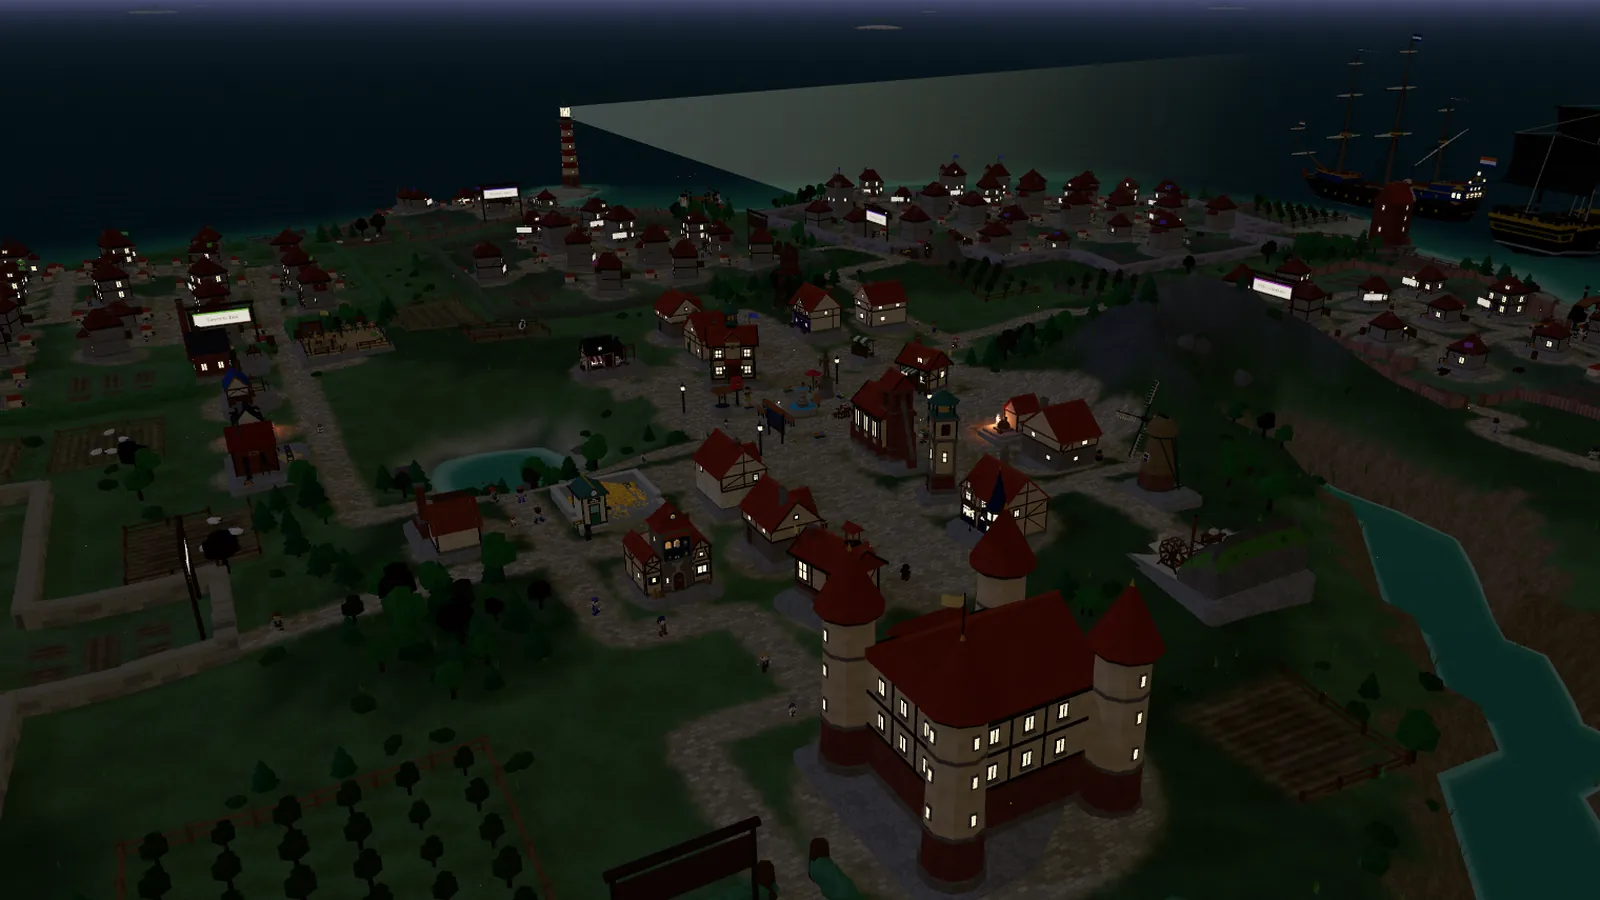
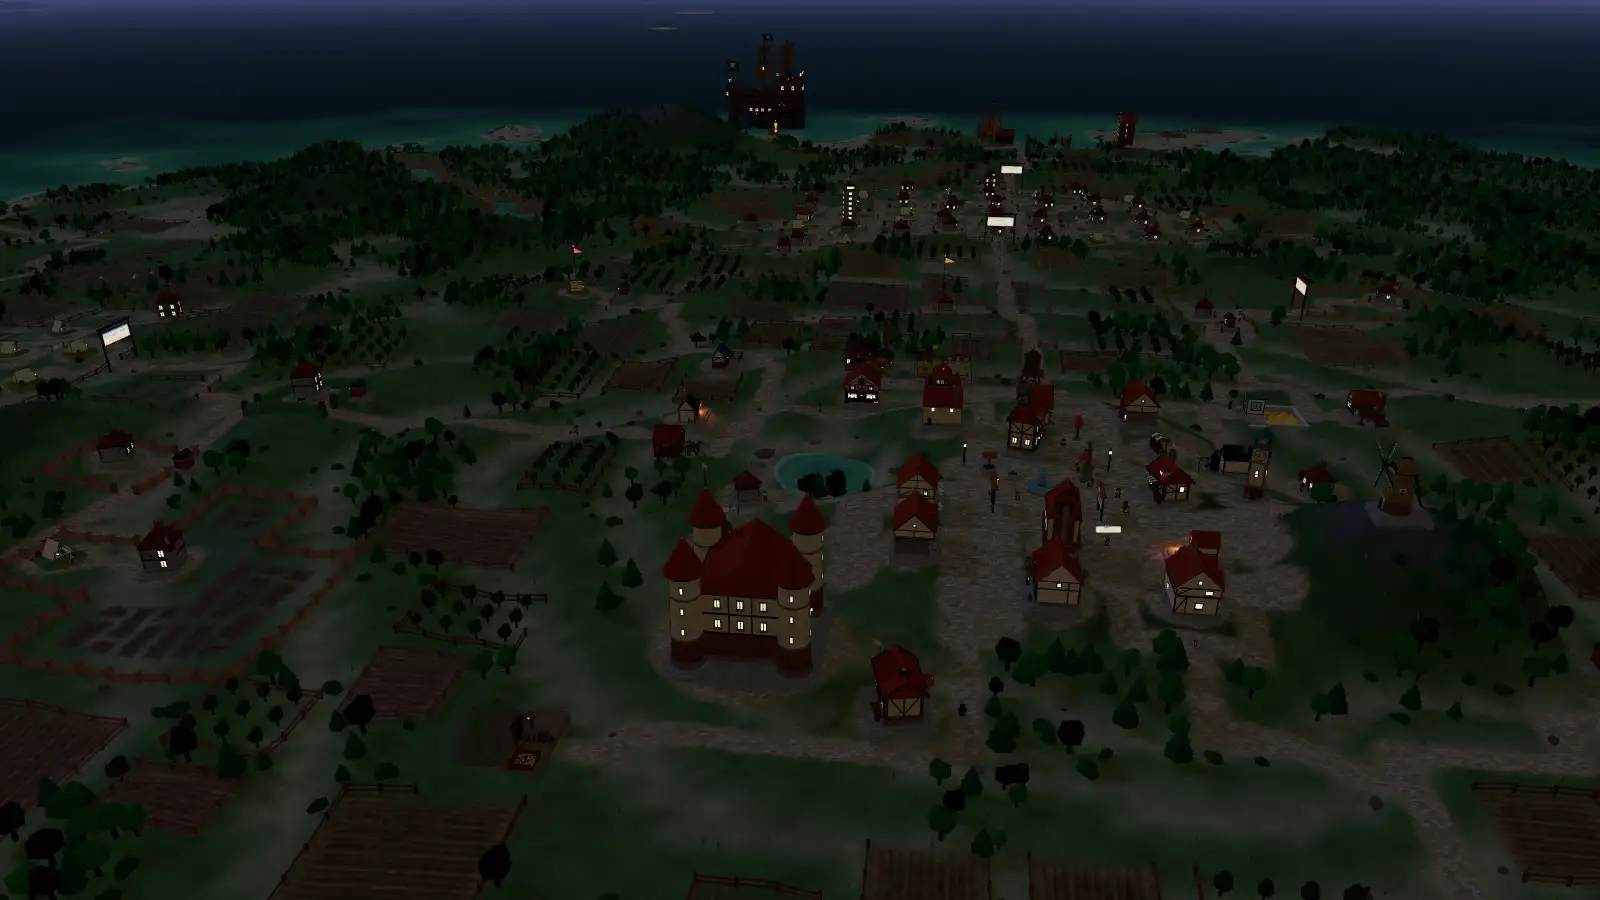
Maak de overzichtsfoto's van de website opnieuw op een eiland met ruimte
Het synthetische eiland was op 128 gesticht en zijn 175 huizen stonden
schouder aan schouder. Overzicht, stad (dag en nacht), burcht, gehucht,
haven, interface en og.jpg komen nu van een kopie van BierRum (288,
zeventien wijken ver uit elkaar), met de boten en schepen verborgen.
De titelkaart, de bijschriften en de alt-teksten volgen het nieuwe
eiland; het recept staat in Plans/DONE/website.md.

diff --git a/site/index.html b/site/index.html
@@ -68,15 +68,15 @@
       <figure class="hero-shot">
         <picture>
           <source media="(max-width: 700px)" srcset="img/town-800.webp">
-          <img src="img/town.webp" width="1600" height="900" alt="An aerial view of a Promptholm town in the afternoon: a red-roofed castle in front, the market square behind it, hamlets of houses stretching to the coast, a lighthouse and two tall ships at anchor." fetchpriority="high">
+          <img src="img/town.webp" width="1600" height="900" alt="An aerial view of a Promptholm town in the afternoon: a red-roofed castle in front, the market square behind it, hamlets of houses spread out among fields and woods, and the Salty Kraken on its rock in the bay." fetchpriority="high">
         </picture>
         <div class="titlecard" aria-hidden="true">
           <p class="tc-kicker">The living island</p>
           <p class="tc-name">Promptholm <span class="tc-live">Live</span></p>
           <p class="tc-founded">Founded 1 January 2026</p>
-          <p class="tc-stats"><span><b>175</b> settlers</span><span><b>202</b> apprentices</span><span><b>11</b> districts</span></p>
+          <p class="tc-stats"><span><b>140</b> settlers</span><span><b>120</b> apprentices</span><span><b>17</b> districts</span></p>
         </div>
-        <figcaption>An island of 175 sessions across eleven repositories, at four in the afternoon.</figcaption>
+        <figcaption>An island of 140 sessions across seventeen repositories, at four in the afternoon.</figcaption>
       </figure>
     </div>
   </section>
@@ -154,7 +154,7 @@
           <p>When the land runs out, the island grows. New coast rises from the shallows, old coves are drained into polders, and the river mouth becomes a harbour with a stone quay.</p>
         </div>
         <figure class="shot split-media">
-          <img src="img/castle.webp" width="1600" height="900" loading="lazy" alt="The great castle of Promptholm with four red-capped towers, rows of houses behind it, a river running to the sea and three ships on the horizon under an orange evening sky.">
+          <img src="img/castle.webp" width="1600" height="900" loading="lazy" alt="The great castle of Promptholm with four red-capped towers, the town square beside it, hamlets scattered through the woods behind and the Salty Kraken on the horizon under an orange evening sky.">
           <figcaption>The castle, earned at a hundred settlers.</figcaption>
         </figure>
       </div>
@@ -252,7 +252,7 @@
       </div>
       <figure class="daynight" id="daynight">
         <img class="dn-day" draggable="false" src="img/town.webp" width="1600" height="900" loading="lazy" alt="The town at four in the afternoon.">
-        <img class="dn-night" draggable="false" src="img/night.webp" width="1600" height="900" loading="lazy" alt="The same view at nine in the evening: lit windows, lamps on the square and the lighthouse beam over the sea.">
+        <img class="dn-night" draggable="false" src="img/night.webp" width="1600" height="900" loading="lazy" alt="The same view at nine in the evening: lit windows, lamps on the square and lanterns on the Salty Kraken out in the bay.">
         <span class="dn-label dn-l" aria-hidden="true">16:00</span>
         <span class="dn-label dn-r" aria-hidden="true">21:00</span>
         <div class="dn-handle" aria-hidden="true"><span></span></div>
@@ -333,13 +333,13 @@
         <p>Every picture here is a screenshot of Promptholm running, most with the interface hidden for the view. Click one to see it large.</p>
       </div>
       <ul class="gallery">
-        <li class="g-wide"><button type="button" data-full="img/aerial.webp"><img src="img/aerial-800.webp" width="800" height="450" loading="lazy" alt="The whole island from high above: a green island ringed by turquoise shallows, hundreds of red-roofed houses in walled hamlets, a river, a lighthouse and ships at anchor."></button><p>The whole island, 175 houses in eleven hamlets.</p></li>
+        <li class="g-wide"><button type="button" data-full="img/aerial.webp"><img src="img/aerial-800.webp" width="800" height="450" loading="lazy" alt="The whole island from high above: a green island ringed by turquoise shallows, the town in the middle and hamlets of red-roofed houses spread out among fields and woods, with rivers running to the sea."></button><p>The whole island, 140 houses in seventeen hamlets with room to grow.</p></li>
         <li><button type="button" data-full="img/square.webp"><img src="img/square-800.webp" width="800" height="450" loading="lazy" alt="The town square close up: timber-framed shops, a clock tower, lamp posts and settlers walking the cobbles."></button><p>The square, where the village meets for coffee.</p></li>
         <li><button type="button" data-full="img/ships.webp"><img src="img/ships-800.webp" width="800" height="450" loading="lazy" alt="The harbour close up: a black-sailed galleon, the Batavia flying Dutch flags and a hull on the slipway."></button><p>The galleon and the Batavia.</p></li>
         <li><button type="button" data-full="img/lighthouse.webp"><img src="img/lighthouse-800.webp" width="800" height="450" loading="lazy" alt="A red and white striped lighthouse on a sandy point, houses and fields behind it."></button><p>The lighthouse on the northern point.</p></li>
         <li><button type="button" data-full="img/night-square.webp"><img src="img/night-square-800.webp" width="800" height="450" loading="lazy" alt="The shops round the square at night, their windows lit warm yellow, with the lighthouse beam sweeping the sky behind."></button><p>The square after dark.</p></li>
-        <li><button type="button" data-full="img/hamlet.webp"><img src="img/hamlet-800.webp" width="800" height="450" loading="lazy" alt="A hamlet on the western coast: rows of houses inside a low wall, fields and a jetty on the beach."></button><p>A hamlet on the western shore, with its own jetty.</p></li>
-        <li class="g-wide g-right"><button type="button" data-full="img/harbour.webp"><img src="img/harbour-800.webp" width="800" height="450" loading="lazy" alt="The east coast from above: houses down to the beach, the shipyard with a hull on its slipway and ships at anchor off shore."></button><p>The east coast, with the shipyard at work.</p></li>
+        <li><button type="button" data-full="img/hamlet.webp"><img src="img/hamlet-800.webp" width="800" height="450" loading="lazy" alt="A hamlet near the north coast: houses and tents inside a wooden fence, fields and orchards round it, and the shipyard on the beach behind."></button><p>A hamlet by the north shore, fields all round it.</p></li>
+        <li class="g-wide g-right"><button type="button" data-full="img/harbour.webp"><img src="img/harbour-800.webp" width="800" height="450" loading="lazy" alt="The north coast from above: fields down to the beach, the shipyard with a hull on its slipway, a jetty, the warehouse and the Salty Kraken on its rock off shore."></button><p>The north coast, with the shipyard at work.</p></li>
         <li><button type="button" data-full="img/village.webp"><img src="img/village-800.webp" width="800" height="450" loading="lazy" alt="A younger island: a small town square with a water tower, fields and orchards and a handful of houses by a river."></button><p>An island earlier on, before its hamlets filled in.</p></li>
         <li><button type="button" data-full="img/interface.webp"><img src="img/interface-800.webp" width="800" height="450" loading="lazy" alt="The Promptholm window with its interface: the island's title card with settler counts, hamlet names over the land, a menu bar and a timeline to replay the island's history."></button><p>With the interface on: hamlet names, counts and a timeline to replay how the town grew.</p></li>
         <li class="g-wide"><button type="button" data-full="img/kraken.webp"><img src="img/kraken-800.webp" width="800" height="450" loading="lazy" alt="The Salty Kraken close up: a galleon with black Jolly Roger flags and brown sails, lit windows along her stern, purple kraken arms round her hull and a rocky footing with a stair down to a jetty."></button><p>The Salty Kraken, aground in the bay.</p></li>

diff --git a/Plans/DONE/website.md b/Plans/DONE/website.md
@@ -57,6 +57,29 @@ Recept, voor als ze opnieuw moeten:
    Een frame duurt in software seconden: schermafdrukken met een timeout van minuten.
 4. Omzetten naar WebP op 1600 en 800 breed; `og.jpg` 1200 x 630.
 
+**8 oktober 2026: het overzicht opnieuw, op een eiland met ruimte.** Het synthetische eiland was op
+128 gesticht en de 175 huizen stonden er schouder aan schouder ("te klein voor de inhoud", Tiemen).
+`aerial`, `town`, `night`, `castle`, `hamlet`, `harbour`, `interface` en `og.jpg` komen nu van een
+kopie van Tiemens eigen eiland BierRum (288, gegroeid, zeventien wijken ver uit elkaar), zonder
+bootjes. De close-ups (`square`, `night-square`, `lighthouse`, `ships`, `signs`, `walking`, `village`)
+zijn van het oude eiland gebleven. Recept:
+
+1. `~/.promptholm` kopiëren zonder `*.lock`, `*.log`, `audio/` en `data/sea-token.json`; in de kopie
+   `multiplayer.sea` = `{ mode: 'single', url: null, key: null, port: <vrij> }` en `network.public`
+   false, dan vanuit een worktree `PROMPTHOLM_HOME=<kopie> node serve.mjs --port <vrij> --no-rescan --no-open`.
+2. Chrome headless (`--headless=new --use-angle=d3d11`, venster 1600 x 900) over CDP, `?noclip&nointro&hour=16`
+   (`hour=21` voor de nacht, `18` voor de burcht in de avond). `Fetch` plakt achter `js/main.js`
+   `window.__state = state; window.__camera = camera; window.__controls = controls;`. Camera met
+   `await __noclip.go({x,y,z})` + `await __noclip.lookAt(...)`, `__noclip.hud(false)`; de boten weg met
+   `b.craft.object.visible = false` voor elke `__state.boats` en `group.visible = false` op elk record
+   `civic:ship*`. Voor `interface` zonder noclip, camera via `__controls`, en `#right-column, #toasts`
+   verborgen: daar staan de echte sessietitels van de keeper.
+3. Poses (lokale coördinaten): overzicht van (0,140,150) naar (0,0,-15); stad en nacht van (-4,21,40) naar
+   (-10,0,-6), zodat de Salty Kraken niet achter de titelkaart valt; burcht (-18,12,32) naar (-6,2,-40);
+   gehucht (-28,26,-28) naar (-4,0,-60); haven (18,32,-78) naar (0,0,-112).
+4. WebP met Chrome's eigen encoder (`canvas.toDataURL('image/webp', 0.62)` op 1600, 0.7 op 800,
+   JPEG 0.72 voor `og.jpg`).
+
 ## Online zetten (nog te doen)
 
 - `.github/workflows/site.yml` publiceert `site/` bij een push naar main die `site/` raakt.
